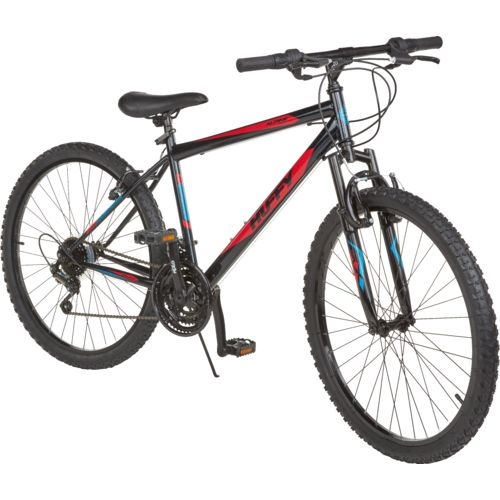
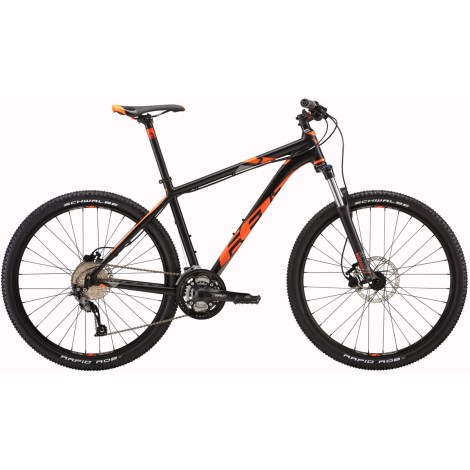
:)

diff --git a/cit230/assignments/term-website-project/sales.html b/cit230/assignments/term-website-project/sales.html
@@ -33,8 +33,11 @@
 	<main>
         <h2>Sales</h2>
         <div class="grid">
-            <div><a href="franklin.html"><img src="images/hurricane.jpg" alt="hurricane"><br>Hurricane</a></div>
-            <div><a href="franklin.html"><img src="images/rain.jpg" alt="rain"><br>Rain</a></div>
+            <div><a href="https://www.academy.com/shop/ProductDisplay?urlRequestType=Base&productId=4139669&catalogId=10051&categoryId=16060&errorViewName=ProductDisplayErrorView&urlLangId=-1&attr=&langId=-1&top_category=16018&parent_category_rn=15613&storeId=10151#repChildCatid=4139670"><img src="images/bike.jpg" alt="bike"><br>Mountain Bike</a>
+				<p>Head for the open trails on the Huffy Men's Alpine 26" 18-Speed Mountain Bike. Built with a rugged steel hardtail frame and knobby tires with weather-resistant alloy rims, this mountain bike makes changing gears a breeze thanks to its Enzo twist-shifting system.</p></div>
+            <div><a href="https://www.merlincycles.com/felt-7-seventy-275-wheel-mountain-bike-97265.html"><img src="images/bike1.jpg" alt="bike"><br>Wheel Mountain Bike</a>
+				<p>Felt 7 Seventy 27.5" Wheel Mountain Bike delivers all the qualities you look for in a 27.5” wheel hardtail mountain bike - speed, confidence and control. For riders who want all the gains of a larger wheel – increased traction, stability and maintained rolling momentum while retaining the nimble handling characteristics of a traditional 26” mountain bike wheel the modern 27.5” wheeled mountain bike is a perfect choice.</p></div>
+       <div><a href="https://flatbike.com/product/612/?gclid=Cj0KCQiAgs7RBRDoARIsANOo-HgUu_o1kNN5E6rxdon7OumwEEXPd_Jeb0IemslW3zXy29s0mwhgn2UaAve0EALw_wcB"><img src="images/bike2.jpg" alt="bike"><br>Change Bike 612</a><p>From the 30-speed Shimano drivetrain and hydraulic brakes to the FOX Performance 32 air shock fork, this 25-lb hardtail is a fantastic way to get out on the trails.</p></div>
         </div>
     </main>
 	<footer>

diff --git a/cit230/assignments/term-website-project/styles/large.css b/cit230/assignments/term-website-project/styles/large.css
@@ -1,7 +1,6 @@
-@media only screen and (min-width: 64em) {
-  /* Only CSS rules that need to be changed to meet the layout needs from medium to large/wide go in here */
-    
-	header img{
+	@media only screen and (min-width: 64em) {
+	/* Only CSS rules that need to be changed to meet the layout needs from medium to large/wide go in here */
+	header img {
 		width: 25%;
 	}
 	nav button {
@@ -19,25 +18,39 @@
 		margin: 0 0 0 0;
 		padding: 0;
 	}
-	nav ul{
+	nav ul {
 		list-style-type: none;
 		padding: 0;
 		margin: 0 0 0 0;
 	}
-	nav ul li{
-		float:left;
+	nav ul li {
+		float: left;
 		width: 16.66%;
 		text-align: center;
 		margin: 0 0 0 0;
 	}
-	
 	footer {
-	display: flex;
-	justify-content: space-between;
-	padding: .5em;
-}
-	
-footer img {
-	display: inline;
-	width: 45px;
-}
+		display: flex;
+		justify-content: space-between;
+		padding: .5em;
+	}
+	footer img {
+		display: inline;
+		width: 45px;
+	}
+	.grid {
+		display: grid;
+		grid-template-columns: 1fr 1fr 1fr;
+		grid-gap: 10px;
+	}
+.grid div img{
+		width: 250px;
+		height: 200px;
+	}
+	.grid div img:hover {
+		box-shadow: 6px 6px 10px;
+		color: dimgray;
+	}
+	.grid div img:active {
+		color: #000;
+	}

diff --git a/cit230/assignments/term-website-project/styles/main.css b/cit230/assignments/term-website-project/styles/main.css
@@ -128,6 +128,29 @@ img {
 	margin: .5em;
 }
 
+.grid {
+    display: grid;
+    grid-template-columns: 1fr;
+    grid-gap: 10px;
+
+}
+
+.grid div img{
+    width: 250px;
+    height: 200px;
+
+}
+
+.grid div img:hover {
+    box-shadow: none;
+    color: none;
+}
+
+.grid div img:active {
+    color: none;
+}
+
+
 footer {
 	text-align: center;
 }
